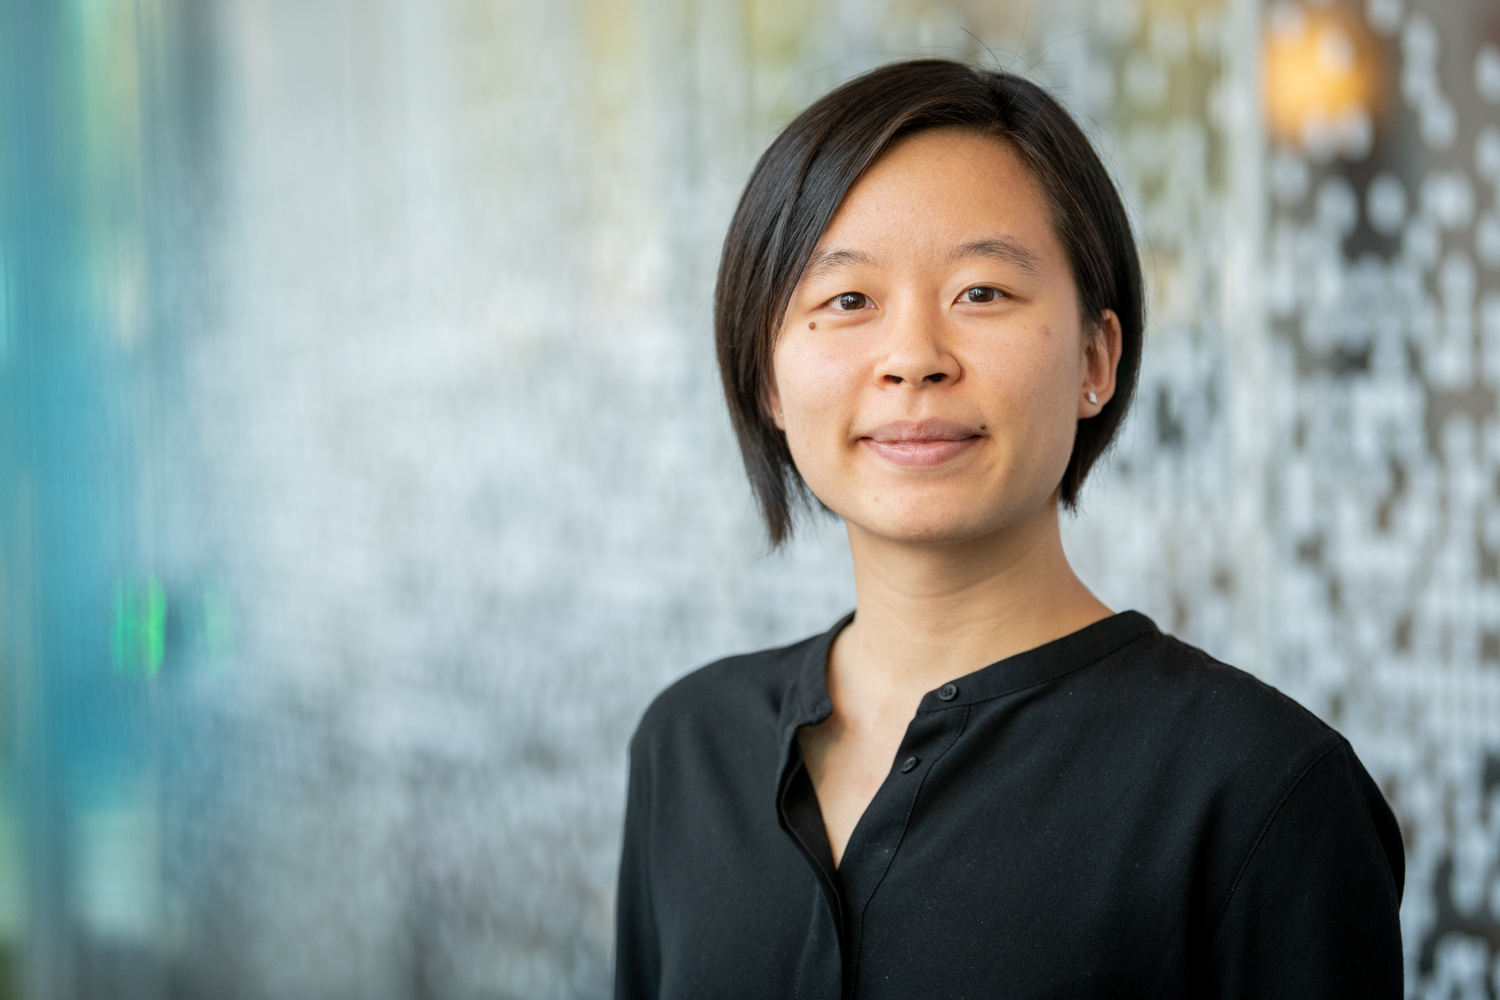
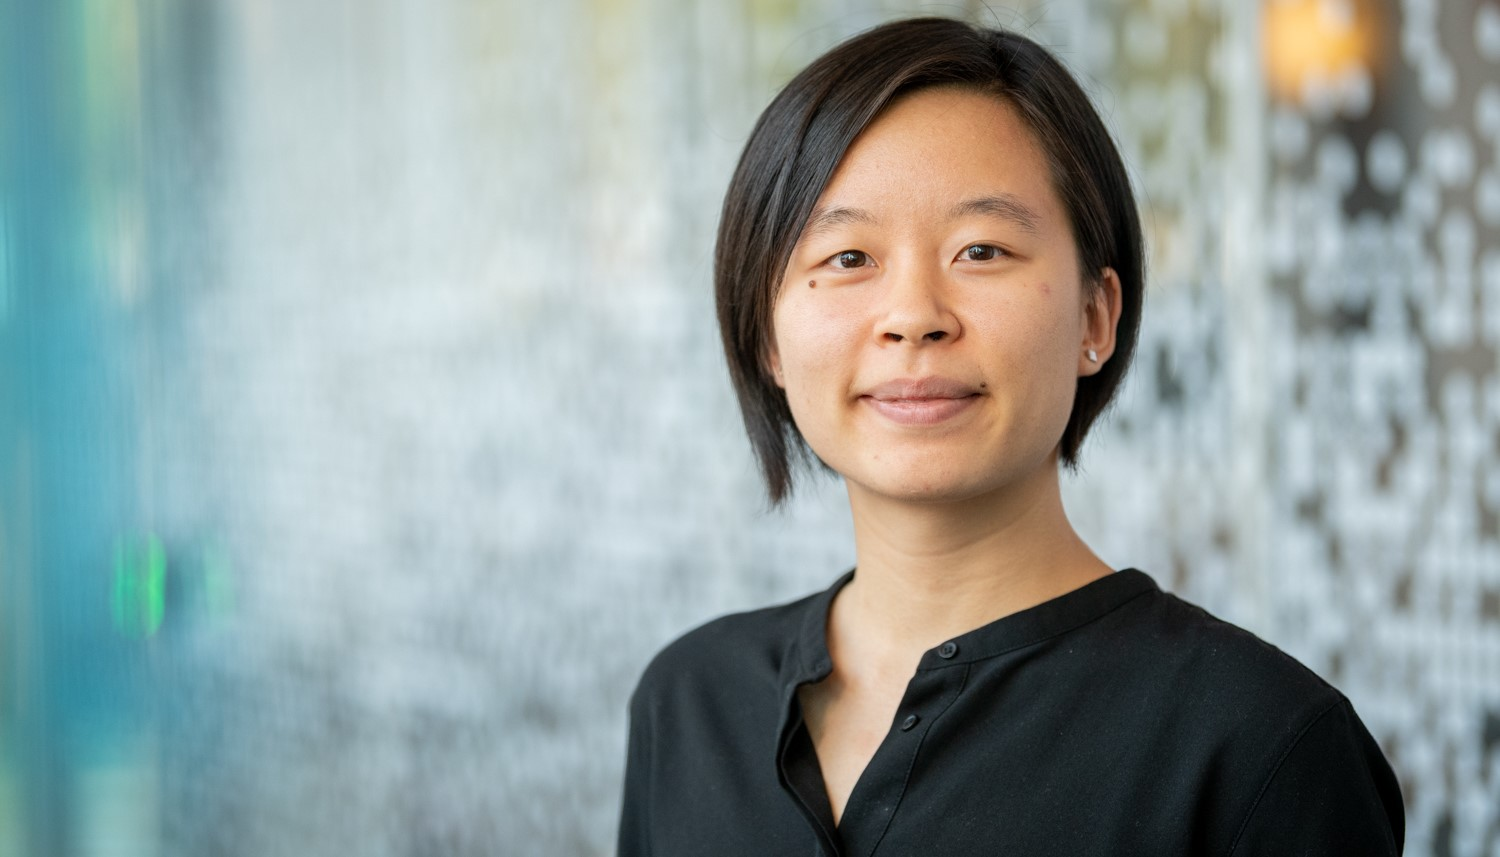
add about me

diff --git a/src/components/Home.js b/src/components/Home.js
@@ -3,9 +3,55 @@ import React, { Component } from 'react';
 export default class Home extends Component {
     render() {
         return (
-            <div>
-                placeholder text indicating HOME!
-            </div>
+            <>
+                <section>
+                    <header className='main'>
+                        <h1>About Me</h1>
+                    </header>
+                </section>
+
+                <span className='image main'>
+                    <img src='images/miranda.jpg' alt='Professional headshot' />
+                </span>
+
+                <hr className='major' />
+                <p>Hi! My name is Miranda Tran and I am currently a Master of Computer Science 
+                    (MSCS) student at Northeastern University through Align! This program is 
+                    a pathway for non-CS majors—an English major and Education minor like me!—to 
+                    learn more about the computer science industry 
+                    and learn the requisite skills and technologies to succeed in this field.</p>
+                <div className='row'>
+                    <div className='col-6 col-12-small'>
+                        <h3>Academics</h3>
+                        <p>In my studies so far, some of the coursework I have completed so far include:
+                            <ul>
+                                <li>Natural Language Processing (CS6120)</li>
+                                <li>Web Development (CS5610)</li>
+                                <li>Foundations of Software Engineering (CS5500)</li>
+                                <li>...and so on!</li>
+                            </ul>
+                            Currently, I am studying Database Managment Systems (CS5200) and UI Development (CS7580).</p>
+                    </div>
+
+                    <div className='col-6 col-12-small'>
+                        <h3>My Journey to Computer Science</h3>
+                        <p>At the end of my junior year of college, a representative from the Align program came 
+                            to speak at my school about this bridge program. In the fall, I enrolled in an introductory 
+                            computer science course and excelled in the coursework. More so, I found that I enjoyed the process 
+                            of solving a problem, incrementally and programmatically! With the encouragement of my professors, 
+                            I applied for and entered the Align program and I am grateful that I have this opportunity to develop a strong foundation 
+                            in computer science and hopefully combine my own love of English into my future career.
+                        </p>
+                    </div>
+                </div>
+                    
+                
+                <p>To see some of my work, be sure to check out the projects section and my GitHub!</p>
+                <p>Finally, I am now looking for an internship or co-op (Summer/Fall 2021) to apply the skills I have learned 
+                    and to learn or expand my knowledge of new technologies! Please contact me for any opportunities through 
+                    my LinkedIn or through my email!
+                </p>
+            </>
         )
     }
 }

diff --git a/public/assets/css/main.css b/public/assets/css/main.css
@@ -99,7 +99,7 @@ body, input, select, textarea {
   line-height: 1.65; }
   @media screen and (max-width: 1680px) {
     body, input, select, textarea {
-      font-size: 11pt; } }
+      font-size: 14pt; } }
   @media screen and (max-width: 1280px) {
     body, input, select, textarea {
       font-size: 10pt; } }
